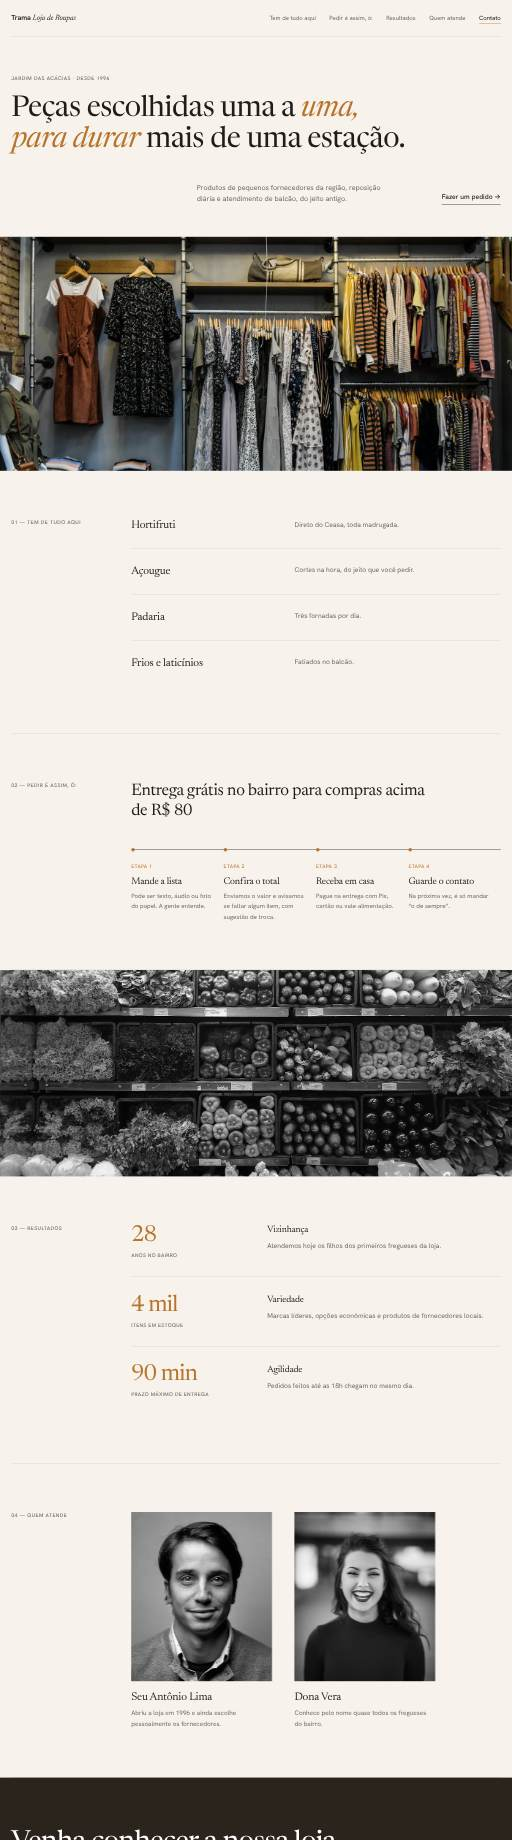
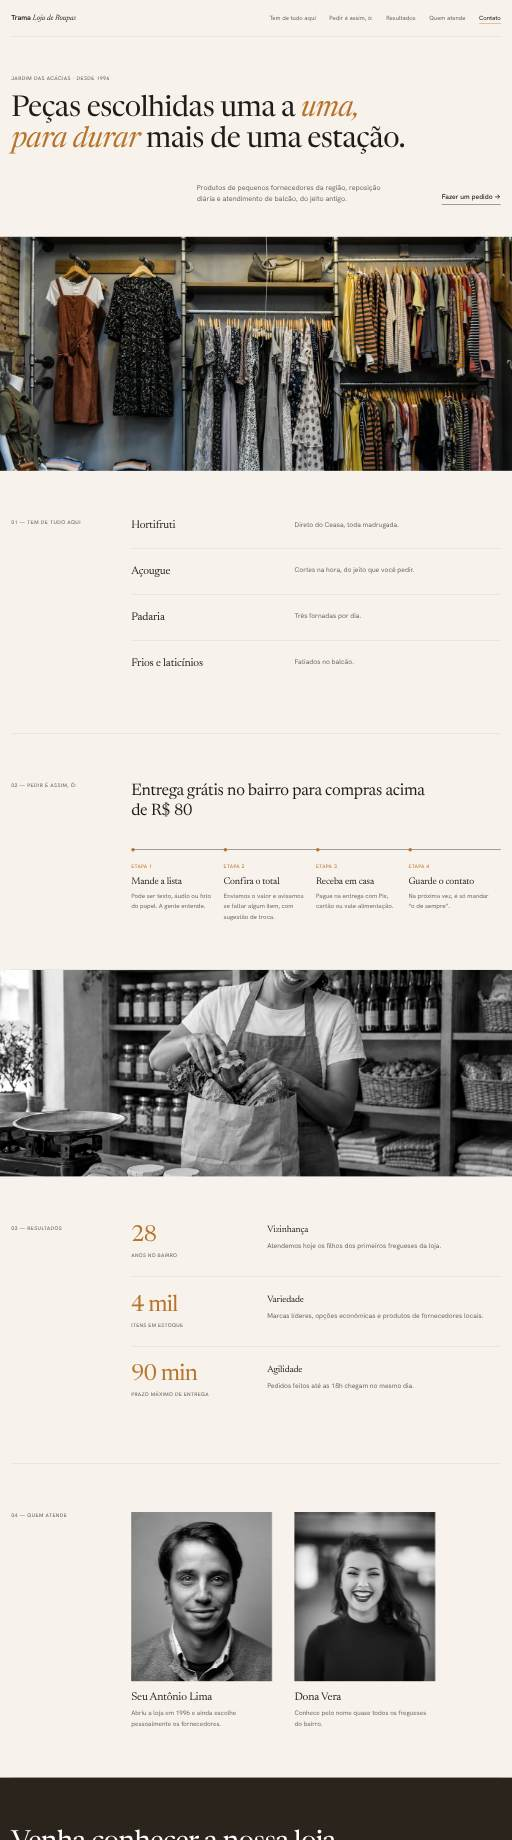
Bring comercio to 10 photos
Claude-Session: https://claude.ai/code/session_0151Yi9K8yWSyYvoKWm1KgPz

Changed region(s): [[0.0, 0.5266, 1.0, 0.6505]]

diff --git a/kolp-modelos/demo/comercio-07/index.html b/kolp-modelos/demo/comercio-07/index.html
@@ -35,7 +35,7 @@
       <p class="lide">Compre na loja, pelo telefone ou pelo WhatsApp, e pague na entrega com Pix, cartão ou vale-alimentação.</p>
       <div class="acoes"><a class="botao" href="#contato">Fazer um pedido</a><a class="elo" href="#servicos">Ver ofertas da semana</a></div>
     </div>
-    <figure class="arco"><img src="../../fotos/comercio/1.jpg" alt="" width="1400" height="930"><figcaption>Desde 1996</figcaption></figure>
+    <figure class="arco"><img src="../../fotos/comercio/7.jpg" alt="" width="1400" height="930"><figcaption>Desde 1996</figcaption></figure>
   </div>
   <div class="largura"><dl class="indices"><div><dd>28</dd><dt>anos no bairro</dt></div><div><dd>4 mil</dd><dt>itens em estoque</dt></div><div><dd>90 min</dd><dt>prazo máximo de entrega</dt></div><div><dd>7</dd><dt>bairros atendidos</dt></div></dl></div>
   </section>
@@ -43,7 +43,7 @@
     <header class="topo rev"><h2>Tem de tudo aqui</h2><p>Seções abastecidas todos os dias e atendimento de quem conhece o produto.</p></header>
     <ol class="cartoes"><li class="rev"><h3>Hortifruti</h3><p>Direto do Ceasa, toda madrugada.</p></li><li class="rev"><h3>Açougue</h3><p>Cortes na hora, do jeito que você pedir.</p></li><li class="rev"><h3>Padaria</h3><p>Três fornadas por dia.</p></li><li class="rev"><h3>Frios e laticínios</h3><p>Fatiados no balcão.</p></li><li class="rev"><h3>Mercearia</h3><p>Mais de quatro mil itens.</p></li><li class="rev"><h3>Bebidas</h3><p>Geladas para levar.</p></li></ol>
   </div></section>
-  <section class="faixa rev"><img src="../../fotos/comercio/2.jpg" alt="" width="1400" height="930" loading="lazy"><p>“Entrega grátis no bairro para compras acima de R$ 80”</p></section>
+  <section class="faixa rev"><img src="../../fotos/comercio/8.jpg" alt="" width="1400" height="930" loading="lazy"><p>“Entrega grátis no bairro para compras acima de R$ 80”</p></section>
   <section class="precos" id="precos"><div class="largura precos-grade">
     <div class="precos-lado rev"><h2>Ofertas da semana</h2><p>Válidas de segunda a domingo ou enquanto durar o estoque.</p><a class="botao" href="#contato">Fazer um pedido</a></div>
     <div class="rev"><details open><summary>Açougue</summary><ul><li><div><b>Contrafilé bovino</b><span>resfriado · kg</span></div><strong>R$ 42,90</strong></li><li><div><b>Frango inteiro</b><span>congelado · kg</span></div><strong>R$ 9,98</strong></li><li><div><b>Linguiça toscana</b><span>kg</span></div><strong>R$ 19,90</strong></li><li><div><b>Costela bovina</b><span>kg</span></div><strong>R$ 24,90</strong></li></ul></details><details><summary>Hortifruti</summary><ul><li><div><b>Banana-prata</b><span>kg</span></div><strong>R$ 4,99</strong></li><li><div><b>Tomate italiano</b><span>kg</span></div><strong>R$ 6,49</strong></li><li><div><b>Batata lavada</b><span>kg</span></div><strong>R$ 5,49</strong></li></ul></details><details><summary>Mercearia</summary><ul><li><div><b>Arroz tipo 1</b><span>pacote 5 kg</span></div><strong>R$ 24,90</strong></li><li><div><b>Café torrado e moído</b><span>500 g</span></div><strong>R$ 17,98</strong></li><li><div><b>Ovos brancos</b><span>cartela com 12</span></div><strong>R$ 10,90</strong></li></ul></details></div>

diff --git a/kolp-modelos/demo/comercio-08/index.html b/kolp-modelos/demo/comercio-08/index.html
@@ -34,17 +34,17 @@
     <p class="lide">Cadastro de fregueses com caderneta digital, ofertas toda semana e troca sem burocracia.</p>
     <div class="acoes"><a class="botao" href="#contato">Fazer um pedido</a><a class="elo" href="#servicos">Ver ofertas da semana</a></div>
     <div class="mosaico">
-      <img class="m1" src="../../fotos/comercio/3.jpg" alt="" width="1400" height="930">
-      <img class="m2" src="../../fotos/comercio/2.jpg" alt="" width="1400" height="930">
-      <img class="m3" src="../../fotos/comercio/4.jpg" alt="" width="1400" height="930">
+      <img class="m1" src="../../fotos/comercio/9.jpg" alt="" width="1400" height="930">
+      <img class="m2" src="../../fotos/comercio/8.jpg" alt="" width="1400" height="930">
+      <img class="m3" src="../../fotos/comercio/10.jpg" alt="" width="1400" height="930">
       <p class="selo"><b>28</b>anos no bairro</p>
     </div>
   </div></section>
   <section class="pontos"><ul class="largura"><li class="rev">Entrega grátis acima de R$ 80</li><li class="rev">Reposição todos os dias, às 6h</li><li class="rev">Terça e quarta com 20% de desconto</li></ul></section>
   <section class="servicos" id="servicos"><div class="largura">
     <header class="topo rev"><h2>Tem de tudo aqui</h2><p>Seções abastecidas todos os dias e atendimento de quem conhece o produto.</p></header>
-    <div class="par rev"><img src="../../fotos/comercio/5.jpg" alt="" width="1400" height="930" loading="lazy"><ul><li><h3>Hortifruti</h3><p>Direto do Ceasa, toda madrugada.</p></li><li><h3>Açougue</h3><p>Cortes na hora, do jeito que você pedir.</p></li><li><h3>Padaria</h3><p>Três fornadas por dia.</p></li></ul></div>
-    <div class="par par-inv rev"><img src="../../fotos/comercio/6.jpg" alt="" width="1400" height="930" loading="lazy"><ul><li><h3>Frios e laticínios</h3><p>Fatiados no balcão.</p></li><li><h3>Mercearia</h3><p>Mais de quatro mil itens.</p></li><li><h3>Bebidas</h3><p>Geladas para levar.</p></li></ul></div>
+    <div class="par rev"><img src="../../fotos/comercio/1.jpg" alt="" width="1400" height="930" loading="lazy"><ul><li><h3>Hortifruti</h3><p>Direto do Ceasa, toda madrugada.</p></li><li><h3>Açougue</h3><p>Cortes na hora, do jeito que você pedir.</p></li><li><h3>Padaria</h3><p>Três fornadas por dia.</p></li></ul></div>
+    <div class="par par-inv rev"><img src="../../fotos/comercio/2.jpg" alt="" width="1400" height="930" loading="lazy"><ul><li><h3>Frios e laticínios</h3><p>Fatiados no balcão.</p></li><li><h3>Mercearia</h3><p>Mais de quatro mil itens.</p></li><li><h3>Bebidas</h3><p>Geladas para levar.</p></li></ul></div>
   </div></section>
   <section class="precos" id="precos"><div class="largura">
     <header class="topo rev"><h2>Ofertas da semana</h2><p>Válidas de segunda a domingo ou enquanto durar o estoque.</p></header>

diff --git a/kolp-modelos/demo/comercio-10/index.html b/kolp-modelos/demo/comercio-10/index.html
@@ -30,7 +30,7 @@
 <div class="conteudo">
 <main>
   <section class="abertura">
-    <img src="../../fotos/comercio/4.jpg" alt="" width="1400" height="930">
+    <img src="../../fotos/comercio/10.jpg" alt="" width="1400" height="930">
     <div class="legenda"><p class="rotulo">Desde 1996 · Jardim das Acácias</p><h1>Livros escolhidos por quem lê, e café para folhear com calma.</h1></div>
   </section>
   <section class="sobre" id="sobre">
@@ -41,7 +41,7 @@
     <header class="topo"><h2>Tem de tudo aqui</h2><p>Seções abastecidas todos os dias e atendimento de quem conhece o produto.</p></header>
     <ul class="servicos"><li><h3>Hortifruti</h3><p>Direto do Ceasa, toda madrugada.</p></li><li><h3>Açougue</h3><p>Cortes na hora, do jeito que você pedir.</p></li><li><h3>Padaria</h3><p>Três fornadas por dia.</p></li><li><h3>Frios e laticínios</h3><p>Fatiados no balcão.</p></li><li><h3>Mercearia</h3><p>Mais de quatro mil itens.</p></li><li><h3>Bebidas</h3><p>Geladas para levar.</p></li></ul>
   </section>
-  <figure class="citacao"><img src="../../fotos/comercio/5.jpg" alt="" width="1400" height="930" loading="lazy"><blockquote>“Entrega grátis no bairro para compras acima de R$ 80”</blockquote></figure>
+  <figure class="citacao"><img src="../../fotos/comercio/1.jpg" alt="" width="1400" height="930" loading="lazy"><blockquote>“Entrega grátis no bairro para compras acima de R$ 80”</blockquote></figure>
   <section id="equipe">
     <header class="topo"><h2>Quem atende</h2><p>Uma loja de família, com funcionários que estão aqui há mais de dez anos.</p></header>
     <div class="equipe"><article><img src="../../fotos/retratos/m5.jpg" alt="Retrato de Seu Antônio Lima" width="560" height="680" loading="lazy"><div><h3>Seu Antônio Lima</h3><p class="cargo">Fundador</p><p>Abriu a loja em 1996 e ainda escolhe pessoalmente os fornecedores.</p></div></article><article><img src="../../fotos/retratos/f5.jpg" alt="Retrato de Dona Vera" width="560" height="680" loading="lazy"><div><h3>Dona Vera</h3><p class="cargo">Caixa e atendimento</p><p>Conhece pelo nome quase todos os fregueses do bairro.</p></div></article><article><img src="../../fotos/retratos/m6.jpg" alt="Retrato de Paulo Lima" width="560" height="680" loading="lazy"><div><h3>Paulo Lima</h3><p class="cargo">Gerente</p><p>Filho do fundador, implantou as entregas e o pedido pelo WhatsApp.</p></div></article></div>

diff --git a/kolp-modelos/demo/comercio-09/index.html b/kolp-modelos/demo/comercio-09/index.html
@@ -30,7 +30,7 @@
 </div></header>
 <main>
   <section class="abertura">
-    <img src="../../fotos/comercio/3.jpg" alt="" width="1400" height="930">
+    <img src="../../fotos/comercio/9.jpg" alt="" width="1400" height="930">
     <div class="abertura-bloco"><div>
       <p class="rotulo">Jardim das Acácias</p>
       <h1>Do parafuso à betoneira, com quem entende de obra.</h1>
@@ -51,7 +51,7 @@
     <header class="topo"><h2>Ofertas da semana</h2><p>Válidas de segunda a domingo ou enquanto durar o estoque.</p></header>
     <div class="tabela-rolagem"><table><tbody><tr class="grupo"><th colspan="3">Açougue</th></tr><tr><th>Contrafilé bovino</th><td>resfriado · kg</td><td>R$ 42,90</td></tr><tr><th>Frango inteiro</th><td>congelado · kg</td><td>R$ 9,98</td></tr><tr><th>Linguiça toscana</th><td>kg</td><td>R$ 19,90</td></tr><tr><th>Costela bovina</th><td>kg</td><td>R$ 24,90</td></tr></tbody><tbody><tr class="grupo"><th colspan="3">Hortifruti</th></tr><tr><th>Banana-prata</th><td>kg</td><td>R$ 4,99</td></tr><tr><th>Tomate italiano</th><td>kg</td><td>R$ 6,49</td></tr><tr><th>Batata lavada</th><td>kg</td><td>R$ 5,49</td></tr></tbody><tbody><tr class="grupo"><th colspan="3">Mercearia</th></tr><tr><th>Arroz tipo 1</th><td>pacote 5 kg</td><td>R$ 24,90</td></tr><tr><th>Café torrado e moído</th><td>500 g</td><td>R$ 17,98</td></tr><tr><th>Ovos brancos</th><td>cartela com 12</td><td>R$ 10,90</td></tr></tbody></table></div>
   </div></section>
-  <section class="prova"><img src="../../fotos/comercio/4.jpg" alt="" width="1400" height="930" loading="lazy">
+  <section class="prova"><img src="../../fotos/comercio/10.jpg" alt="" width="1400" height="930" loading="lazy">
     <blockquote><p>“Mando a lista de manhã e antes do almoço está tudo na minha cozinha, com a fruta escolhida melhor do que eu escolheria.”</p><footer><b>Dona Márcia</b> freguesa há dezoito anos</footer></blockquote>
   </section>
   <section class="contato" id="contato"><div class="largura contato-grade">

diff --git a/kolp-modelos/demo/comercio-06/index.html b/kolp-modelos/demo/comercio-06/index.html
@@ -44,7 +44,7 @@
     <div><p class="frase rev">Entrega grátis no bairro para compras acima de R$ 80</p>
       <ol class="etapas"><li class="rev"><span>Etapa 1</span><h3>Mande a lista</h3><p>Pode ser texto, áudio ou foto do papel. A gente entende.</p></li><li class="rev"><span>Etapa 2</span><h3>Confira o total</h3><p>Enviamos o valor e avisamos se faltar algum item, com sugestão de troca.</p></li><li class="rev"><span>Etapa 3</span><h3>Receba em casa</h3><p>Pague na entrega com Pix, cartão ou vale-alimentação.</p></li><li class="rev"><span>Etapa 4</span><h3>Guarde o contato</h3><p>Na próxima vez, é só mandar “o de sempre”.</p></li></ol></div>
   </div></section>
-  <figure class="faixa-foto rev"><img src="../../fotos/comercio/1.jpg" alt="" width="1400" height="930" loading="lazy"></figure>
+  <figure class="faixa-foto rev"><img src="../../fotos/comercio/7.jpg" alt="" width="1400" height="930" loading="lazy"></figure>
   <section class="casos" id="resultados"><div class="largura bloco">
     <h2 class="rotulo">03 — Resultados</h2>
     <div><article class="rev"><p class="resultado">28<small>anos no bairro</small></p><div><h3>Vizinhança</h3><p>Atendemos hoje os filhos dos primeiros fregueses da loja.</p></div></article><article class="rev"><p class="resultado">4 mil<small>itens em estoque</small></p><div><h3>Variedade</h3><p>Marcas líderes, opções econômicas e produtos de fornecedores locais.</p></div></article><article class="rev"><p class="resultado">90 min<small>prazo máximo de entrega</small></p><div><h3>Agilidade</h3><p>Pedidos feitos até as 18h chegam no mesmo dia.</p></div></article></div>

diff --git a/kolp-modelos/demo/comercio-05/index.html b/kolp-modelos/demo/comercio-05/index.html
@@ -52,7 +52,7 @@
       <a class="botao botao-grande" href="https://wa.me/5511999999999?text=Ol%C3%A1!%20Vim%20pelo%20site.">Fazer um pedido</a></div>
   </div></section>
   <section class="loja" id="local">
-    <img class="loja-fundo" src="../../fotos/comercio/1.jpg" alt="" width="1400" height="930" loading="lazy">
+    <img class="loja-fundo" src="../../fotos/comercio/7.jpg" alt="" width="1400" height="930" loading="lazy">
     <div class="largura loja-grade"><div class="cartao">
       <h2>Venha conhecer a nossa loja</h2>
       <p class="endereco">Rua das Acácias, 480 — Jardim das Acácias</p>
